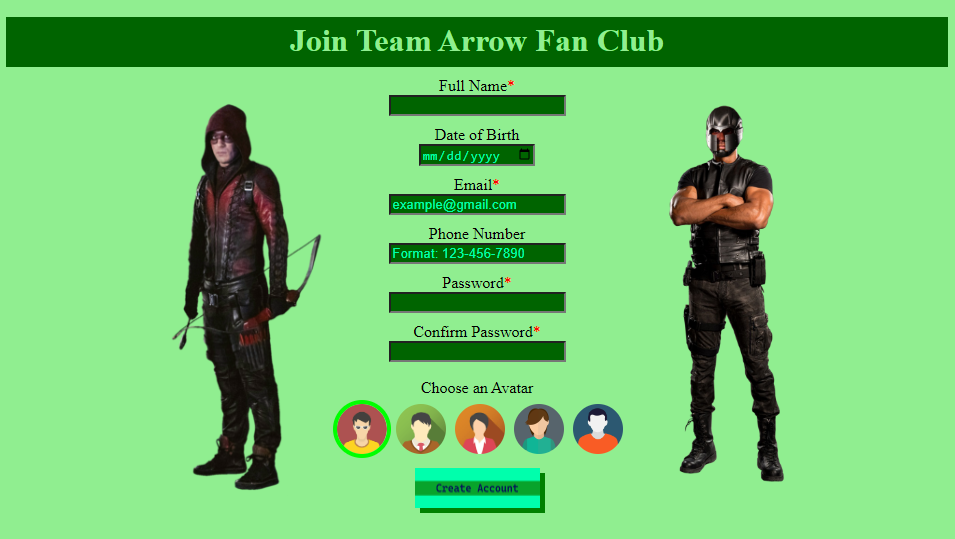
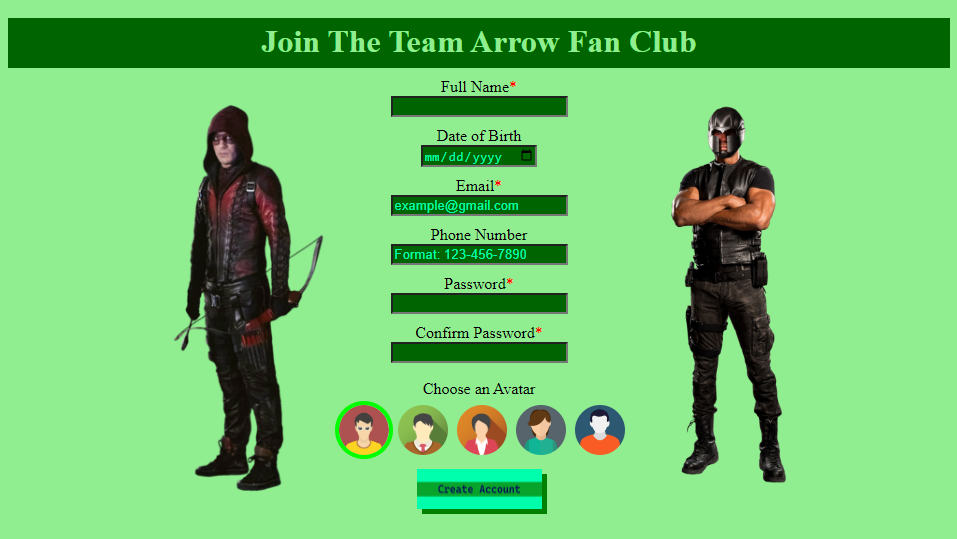
Update README

diff --git a/Account_Manager/Public/HTML/create_account.html b/Account_Manager/Public/HTML/create_account.html
@@ -10,7 +10,7 @@
     </head>
     <body>
         <header>
-            <h1>Join Team Arrow Fan Club</h1>
+            <h1>Join The Team Arrow Fan Club</h1>
         </header>
         <form id="create_account">
             <div id="full_name">
